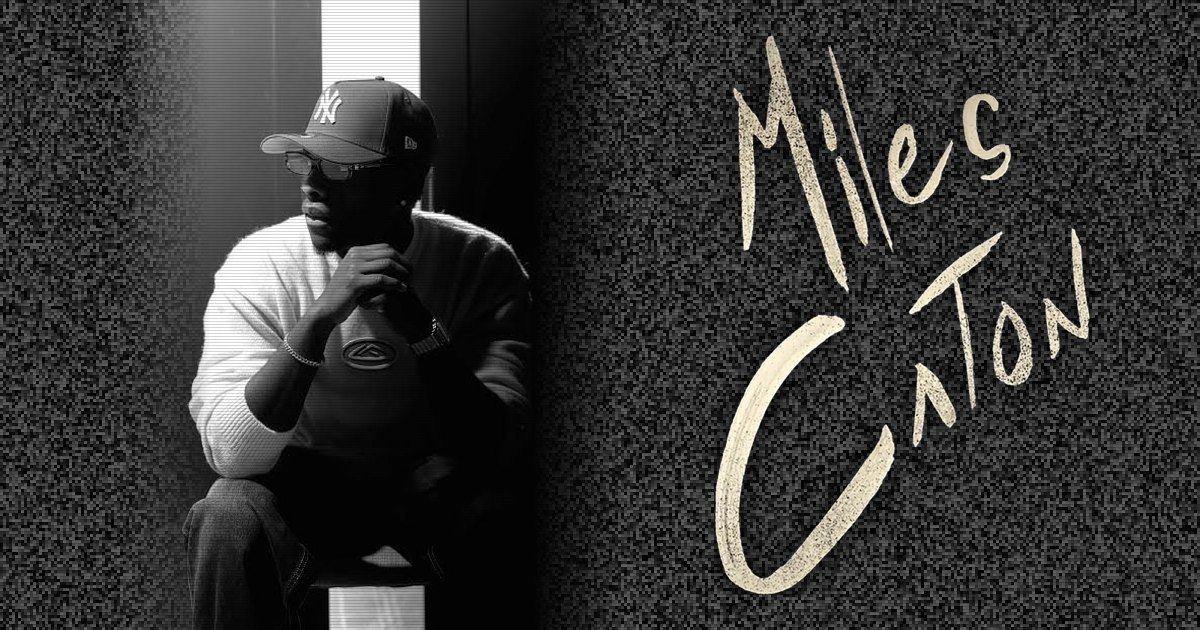
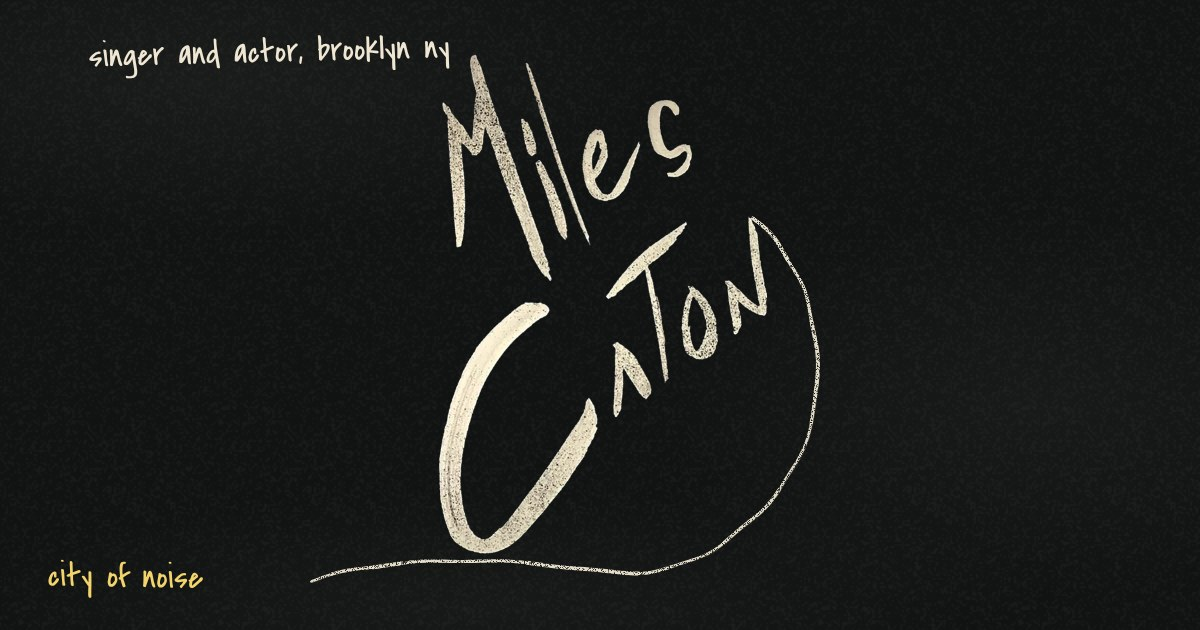
Chalk: signature written stroke by stroke, cleaner line routes, new typeface, chalk layouts for Videos, Press and Dates, new share image
Claude-Session: https://claude.ai/code/session_0155bDEFdULQGs3DaMYCasVB

diff --git a/assets/css/site.css b/assets/css/site.css
@@ -1,11 +1,12 @@
 /* Miles Caton fan site: one line of chalk */
+@font-face{font-family:"Display";src:url(/assets/fonts/display.woff2) format("woff2");font-weight:200 800;font-display:swap}
 @font-face{font-family:"Hand";src:url(/assets/fonts/hand.woff2) format("woff2");font-display:swap}
 :root{
   --sig:url(/img/signature.webp);
   --board:#101312; --board2:#171b19; --chalk:#EFE7D3; --fg:#EFE7D3; --mute:#A8A595; --rule:rgba(239,231,211,.16);
   --yellow:#F3D36B; --ink:#101312;
   --g:clamp(20px,3.4vw,56px);
-  --h:"Helvetica Neue", Helvetica, Arial, sans-serif;
+  --h:"Display","Helvetica Neue", Helvetica, Arial, sans-serif;
   --hand:"Hand","Bradley Hand","Segoe Print","Comic Sans MS",cursive;
   --ease:cubic-bezier(.2,.7,.1,1);
 }
@@ -81,15 +82,12 @@ ul,ol{list-style:none}
 /* ---------- home: the board ---------- */
 .board-hero{position:relative;min-height:calc(100svh - 90px);display:grid;place-items:center;padding:20px var(--g) 90px}
 .sig-write{position:relative;height:min(68svh,calc(78vw * 1.49));aspect-ratio:500/745;transform:rotate(-2deg)}
-.sw{position:absolute;inset:0}
-.sw.a{clip-path:polygon(0 0,100% 0,100% 31%,60% 33%,50% 38%,38% 46%,0 48%)}
-.sw.b{clip-path:polygon(0 48%,38% 46%,50% 38%,60% 33%,100% 31%,100% 100%,0 100%)}
-.sw i{position:absolute;inset:0;background:var(--sig) center/contain no-repeat;clip-path:inset(0 0 0 0)}
-.js .sw.a i{animation:write .8s .25s cubic-bezier(.5,0,.4,1) both}
-.js .sw.b i{animation:write 1s 1.05s cubic-bezier(.5,0,.4,1) both}
-@keyframes write{from{clip-path:inset(0 100% 0 0)}to{clip-path:inset(0 0 0 0)}}
-@media (prefers-reduced-motion:reduce){.js .sw i{animation:none}}
-.chalk-start{position:absolute;left:97%;top:37%;width:1px;height:1px}
+.sig-svg{position:absolute;inset:0;width:100%;height:100%;overflow:visible}
+.st{fill:none;stroke:#fff;stroke-linejoin:round;stroke-dasharray:1;stroke-dashoffset:0}
+.js .st{animation:write var(--t) var(--d) linear both}
+@keyframes write{from{stroke-dashoffset:1}to{stroke-dashoffset:0}}
+@media (prefers-reduced-motion:reduce){.js .st{animation:none}}
+.chalk-start{position:absolute;left:96%;top:34.5%;width:1px;height:1px}
 .corner{position:absolute;color:var(--chalk)}
 .corner.tl{left:var(--g);top:8px;transform:rotate(-1.5deg)}
 .corner.bl{left:var(--g);bottom:34px;transform:rotate(1deg);color:var(--yellow)}
@@ -198,16 +196,31 @@ figcaption{font-family:var(--hand);font-size:24px;line-height:1.15;color:var(--c
 .play i{width:0;height:0;border-left:13px solid currentColor;border-top:8px solid transparent;border-bottom:8px solid transparent}
 
 /* ---------- videos ---------- */
-.vwall{display:grid;grid-template-columns:1fr 1fr;gap:clamp(50px,7vw,110px) clamp(34px,5vw,80px);padding:0 var(--g)}
-.vt.wide{grid-column:1/-1}
+.setlist{padding:0 var(--g) clamp(50px,7vw,100px)}
+.setlist ul{columns:2;column-gap:var(--g);margin-top:10px;max-width:1100px}
+.setlist li{break-inside:avoid}
+.setlist a{display:flex;align-items:baseline;gap:14px;padding:5px 0;font-family:var(--hand);font-size:clamp(30px,3.2vw,46px);line-height:1.05;transition:color .2s}
+.setlist li:nth-child(odd) a{transform:rotate(-.8deg);transform-origin:left}
+.setlist li:nth-child(even) a{transform:rotate(.6deg);transform-origin:left}
+.setlist a::before{content:"";flex:none;width:18px;height:2px;background:currentColor;align-self:center;transform:rotate(-8deg)}
+.setlist small{font-size:.55em;color:var(--mute)}
+.setlist a:hover{color:var(--yellow)}
+.vwall{display:grid;grid-template-columns:repeat(12,1fr);gap:clamp(60px,8vw,130px) var(--g);padding:0 var(--g)}
+.vt{grid-column:span 6;scroll-margin-top:110px}
+.vt.wide{grid-column:2/-2}
+.vt:not(.wide):nth-of-type(4n+2){grid-column:1/7;margin-top:clamp(20px,5vw,80px)}
+.vt:not(.wide):nth-of-type(4n+3){grid-column:8/-1}
+.vt:not(.wide):nth-of-type(4n){grid-column:2/7}
+.vt:not(.wide):nth-of-type(4n+1){grid-column:7/-1;margin-top:clamp(20px,5vw,80px)}
 .vt-scr{position:relative;aspect-ratio:16/9;background:#000}
 .vt-scr iframe{position:absolute;inset:0;width:100%;height:100%;border:0}
-.vt-snow{position:absolute;inset:0;background:var(--board2)}
+.vt-snow{position:absolute;inset:0;background:var(--board)}
 .vt-out{position:absolute;left:50%;top:50%;transform:translate(-50%,-50%) rotate(-2deg);font-family:var(--hand);font-size:32px;line-height:1.1;text-align:center;border-bottom:2px solid currentColor}
 .vt-out.off{border:0;color:var(--mute)}
-.vt figcaption{transform:none;font-family:var(--h);font-size:16px;margin-top:22px}
-.vt .kind{font-family:var(--hand);font-size:24px;color:var(--yellow);line-height:1}
-.vt h2{font-size:clamp(28px,3.4vw,52px);letter-spacing:-.045em;line-height:1}
+.vt figcaption{font-family:var(--h);font-size:16px;margin-top:26px;transform:rotate(-.7deg);transform-origin:left}
+.vt:nth-of-type(even) figcaption{transform:rotate(.5deg)}
+.vt .kind{font-family:var(--hand);font-size:26px;color:var(--yellow);line-height:1}
+.vt h2{font-size:clamp(30px,3.6vw,56px);letter-spacing:-.04em;line-height:1}
 .vt .meta{color:var(--mute);margin:6px 0 8px}
 .yt-link{font-size:14px}
 
@@ -234,18 +247,20 @@ dialog{color:var(--fg)}
 .up-a{grid-column:1/8}.up-b{grid-column:9/-1}
 .up-none{font-size:clamp(24px,2.6vw,40px);letter-spacing:-.03em;line-height:1.12}
 .up-s{margin-top:10px}
-.bday{display:flex;align-items:center;gap:22px;margin:10px 0 18px}
-.bday b{font-family:var(--hand);font-weight:400;font-size:clamp(70px,8vw,120px);line-height:1;color:var(--yellow)}
+.bday{display:flex;align-items:center;gap:34px;margin:26px 0 30px 14px}
+.bday b{font-family:var(--hand);font-weight:400;font-size:clamp(80px,9vw,140px);line-height:1;color:var(--yellow)}
 .past-h{margin-top:20px}
 .dl{padding:0 var(--g)}
 .up-list{padding:0}
-.dl li{display:grid;grid-template-columns:150px 110px 1fr auto;gap:18px;align-items:baseline;padding:16px 0;border-bottom:1px dashed var(--rule)}
-.dl .d{font-family:var(--hand);font-size:24px;line-height:1.1;color:var(--mute)}
-.dl .d b{font-weight:400;color:var(--chalk);margin-right:8px}
-.dl .w{font-family:var(--hand);font-size:22px;line-height:1.1;color:var(--yellow)}
-.dl .t{font-size:clamp(18px,1.9vw,26px);letter-spacing:-.02em;line-height:1.2}
-.dl .t small{display:block;font-size:15px;letter-spacing:0;color:var(--mute);margin-top:3px}
-.dl .e{font-size:14px;white-space:nowrap}
+.dl li{display:grid;grid-template-columns:minmax(190px,22%) 1fr auto;gap:var(--g);align-items:center;padding:clamp(18px,2.4vw,34px) 0;border-bottom:1px dashed var(--rule)}
+.dl .d{font-family:var(--hand);line-height:1;justify-self:start}
+.dl .d b{display:inline-block;font-weight:400;font-size:clamp(44px,5vw,76px);color:var(--chalk)}
+.dl li:nth-child(odd) .d b{transform:rotate(-3deg)}.dl li:nth-child(even) .d b{transform:rotate(2deg)}
+.dl .d i{display:block;font-style:normal;font-size:24px;color:var(--mute);margin-top:2px}
+.dl .w{display:block;font-family:var(--hand);font-style:normal;font-size:26px;line-height:1;color:var(--yellow);letter-spacing:0;margin-bottom:4px}
+.dl .t{font-size:clamp(24px,3vw,46px);font-weight:700;letter-spacing:-.04em;line-height:1.05}
+.dl .t small{display:block;font-size:16px;font-weight:400;letter-spacing:0;line-height:1.4;color:var(--mute);margin-top:8px}
+.dl .e{font-family:var(--hand);font-size:28px;line-height:1;white-space:nowrap}
 
 /* ---------- honors ---------- */
 .tally{display:grid;grid-template-columns:1fr 1fr 1fr;gap:var(--g);padding:0 var(--g) clamp(50px,7vw,100px);align-items:start}
@@ -264,18 +279,22 @@ dialog{color:var(--fg)}
 .cover{padding-bottom:clamp(50px,7vw,100px);align-items:end}
 .cover-ph{grid-column:1/5}.cover-t{grid-column:6/10}.cover-ph2{grid-column:10/-1}
 .cover-h{font-size:clamp(28px,3.6vw,56px);letter-spacing:-.04em;line-height:1;margin:6px 0 14px}
-.filters{display:flex;flex-wrap:wrap;gap:6px 22px;padding:0 var(--g) 20px}
+.filters{display:flex;flex-wrap:wrap;gap:6px 22px;padding:0 var(--g) 20px calc(var(--g) + 25%)}
 .filters button{font-family:var(--hand);font-size:28px;line-height:1.1;color:var(--mute);border-bottom:2px solid transparent}
 .filters button[aria-pressed=true]{color:var(--yellow);border-color:currentColor}
-.press{padding:0 var(--g)}
-.press .yr-h{font-family:var(--hand);font-size:clamp(44px,5vw,72px);line-height:1;color:var(--yellow);padding:34px 0 8px}
-.press a{display:grid;grid-template-columns:110px 190px 1fr 110px;gap:18px;align-items:baseline;padding:14px 0;border-bottom:1px dashed var(--rule);transition:color .2s}
+.press{padding:0 var(--g) 0 calc(var(--g) + 25%)}
+.press .yr-h{position:relative;height:0}
+.press .yr-h+li a{border-top:1px dashed var(--rule)}
+.press .yr-h:not(:first-child)+li{margin-top:clamp(50px,7vw,110px)}
+.press .yr-h span{position:absolute;right:calc(100% + 7vw);top:30px;font-family:var(--hand);font-size:clamp(70px,9vw,140px);line-height:.9;color:var(--yellow);transform:rotate(-5deg)}
+.press .yr-h:not(:first-child) span{top:calc(30px + clamp(50px,7vw,110px))}
+.press a{display:grid;grid-template-columns:1fr auto;gap:4px 24px;align-items:baseline;padding:clamp(16px,2vw,26px) 0;border-bottom:1px dashed var(--rule);transition:color .2s}
 .press a:hover{color:var(--yellow)}
-.press .d,.press .k{font-family:var(--hand);font-size:22px;line-height:1.1;color:var(--mute)}
-.press .k{text-align:right}
-.press .o{font-weight:700}
-.press .h{font-size:clamp(17px,1.6vw,22px);line-height:1.25}
-.further{padding:40px var(--g) 0;display:flex;flex-wrap:wrap;gap:8px 20px}
+.press .o{grid-column:1;grid-row:1;font-family:var(--hand);font-size:clamp(28px,2.8vw,40px);line-height:1}
+.press .d{grid-column:2;grid-row:1;font-family:var(--hand);font-size:24px;line-height:1;color:var(--mute);text-align:right}
+.press .h{grid-column:1;grid-row:2;font-size:clamp(20px,2.3vw,34px);font-weight:700;letter-spacing:-.035em;line-height:1.1;max-width:26em}
+.press .k{grid-column:2;grid-row:2;font-family:var(--hand);font-size:24px;line-height:1;color:var(--yellow);text-align:right}
+.further{padding:50px var(--g) 0 calc(var(--g) + 25%);display:flex;flex-wrap:wrap;gap:8px 20px}
 
 /* ---------- fans: the chalk wall ---------- */
 .wall{display:grid;grid-template-columns:repeat(auto-fill,minmax(260px,1fr));gap:clamp(30px,4vw,60px);padding:0 var(--g) clamp(50px,7vw,100px);align-items:start}
@@ -361,18 +380,24 @@ dialog{color:var(--fg)}
   .tracks li{grid-template-columns:36px 1fr}.tracks li span{grid-column:2}
   .film-more p{grid-column:1/-1}
   .panel .row{flex-direction:column;align-items:flex-start}
+  .setlist ul{columns:1}
   .vwall{grid-template-columns:1fr;padding:0 calc(var(--g) + 8px)}
+  .vwall .vt:nth-of-type(n){grid-column:1/-1;margin-top:0}
   .ph-grid{grid-template-columns:1fr 1fr;gap:50px 30px}
   .ph-fig:nth-child(n){margin-top:0}.ph-fig:nth-child(even){margin-top:36px}
   .ph-fig figcaption{font-size:20px}
   .up-a,.up-b{grid-column:1/-1}.up-b{margin-top:40px}
-  .dl li{grid-template-columns:1fr auto;gap:4px 14px}
-  .dl .t{grid-column:1/-1;order:3}.dl .e{grid-column:1/-1;order:4;justify-self:start}
+  .dl li{grid-template-columns:1fr auto;gap:10px 14px;align-items:end}
+  .dl .d{grid-column:1/-1;display:flex;align-items:baseline;gap:14px}
+  .dl .t{grid-column:1}.dl .e{grid-column:2}
   .tally{grid-template-columns:1fr 1fr}.hon-ph{grid-column:1/-1;margin:20px 8px 0}
   .hon li{grid-template-columns:1fr auto}.hon .c{grid-column:1/-1;order:3}
   .cover-ph{grid-column:1/8}.cover-ph2{grid-column:8/-1}.cover-t{grid-column:1/-1;order:3;margin-top:30px}
-  .press a{grid-template-columns:auto 1fr;gap:2px 14px}
-  .press .o{grid-column:2}.press .h{grid-column:1/-1}.press .k{grid-column:1/-1;text-align:left}
+  .press,.filters,.further{padding-left:var(--g)}
+  .press .yr-h{height:auto;padding:40px 0 16px 10px}
+  .press .yr-h span,.press .yr-h:not(:first-child) span{position:static;display:inline-block;font-size:64px}
+  .press .yr-h:not(:first-child)+li{margin-top:0}
+  .press a{gap:4px 14px}
   .send-a,.send-b,.signup-a,.signup-b,.fix-a,.fix-b{grid-column:1/-1}
   .send-b,.signup-b,.fix-b{margin-top:30px}
   .foot{grid-template-columns:1fr}

diff --git a/assets/js/site.js b/assets/js/site.js
@@ -69,7 +69,7 @@
       const kf = (y) => Math.min(y, key);
       if (!cur) { penUp = true; put(T.x, T.y, key); return; }
       const dx = T.x - cur.x, dy = T.y - cur.y;
-      if ((direct && !(W < 700 && dy > 150)) || Math.abs(dy) < 120) {
+      if ((direct && !(W < 900 && dy > 150)) || Math.abs(dy) < 120) {
         const sag = Math.abs(dy) < 60 ? 24 : 0;
         bez({ x: cur.x + dx * .25, y: cur.y + dy * .6 + sag }, { x: T.x - dx * .25, y: T.y - dy * .6 + sag }, T, kf);
         return;
@@ -90,6 +90,10 @@
       const key = type === 'start' ? -1e8 : r.t + Math.min(r.h * .5, 160);
       const K = () => key, rnd = rng(idx * 7919 + 13);
       mk = idx + 1; el._mk = mk;
+      // a mark on its own: lift the chalk, draw it, then carry the long line on from where it was
+      const solo = el.hasAttribute('data-solo'), hold = cur;
+      if (solo) cur = null;
+      try {
       if (type === 'start') {
         // leave the last letter of the signature and sweep back under the whole name
         const h = el.parentElement.getBoundingClientRect(), hb = h.bottom + sy;
@@ -102,8 +106,8 @@
         const y = r.b + Math.max(7, Math.min(12, r.h * .06));
         travel({ x: r.l - 6, y: y + 3 }, key, direct, side);
         bez({ x: r.l + r.w * .3, y: y - 3 }, { x: r.l + r.w * .7, y: y + 4 }, { x: r.r + 12, y: y - 2 }, K);
-        if (type === 'under2' && W >= 700) {
-          const y2 = y + Math.max(10, Math.min(22, r.h * .07));
+        if (type === 'under2') {
+          const y2 = y + (W < 700 ? 7 : Math.max(10, Math.min(22, r.h * .07)));
           bez({ x: r.r + 26, y: y + 2 }, { x: r.r + 20, y: y2 }, { x: r.r - 10, y: y2 }, K);
           bez({ x: r.l + r.w * .7, y: y2 + 3 }, { x: r.l + r.w * .4, y: y2 - 3 }, { x: r.l - 4, y: y2 + 3 }, K);
         }
@@ -159,12 +163,22 @@
         cur = hold; penUp = !hold; if (hold) { penUp = true; put(hold.x, hold.y, key); }
         return;
       }
+      if (type === 'strike') {
+        const hold = cur, y = (r.t + r.b) / 2;
+        penUp = true; put(r.l - 7, y + 2 + rnd() * 5, key);
+        line({ x: r.r + 9, y: y - 5 + rnd() * 5 }, K);
+        cur = hold; penUp = !hold; if (hold) { penUp = true; put(hold.x, hold.y, key); }
+        return;
+      }
       if (type === 'end') {
         const y0 = r.t + r.h * .92, x0 = r.l, loops = 3, a = Math.min(28, r.w / 12), bb = a * 1.9;
         travel({ x: x0, y: y0 }, key, direct, side);
         const n = Math.ceil(loops * 2 * Math.PI * bb * 1.6 / STEP);
         for (let i = 1; i <= n; i++) { const t = i / n * loops * 2 * Math.PI; put(x0 + a * t - bb * Math.sin(t), y0 - bb * (1 - Math.cos(t)) * .8, key); }
         bez({ x: cur.x + 40, y: y0 + 4 }, { x: cur.x + 110, y: y0 - 14 }, { x: Math.min(r.r, cur.x + 190), y: y0 - 4 }, K);
+      }
+      } finally {
+        if (solo) { cur = hold; penUp = !hold; if (hold) { penUp = true; put(hold.x, hold.y, key); } }
       }
     });
 
@@ -252,7 +266,7 @@
   addEventListener('load', rebuild);
   if (document.fonts && document.fonts.ready) document.fonts.ready.then(rebuild);
   // on the home page the line waits for the signature to finish writing
-  setTimeout(() => { armed = true; kick(); }, reduce ? 0 : ($('.sig-write') && scrollY < 40 ? 2050 : 350));
+  setTimeout(() => { armed = true; kick(); }, reduce ? 0 : ($('.sig-write') && scrollY < 40 ? 2200 : 350));
 
   // a plucked line: the music page waves shake when you point at them
   const pluckEl = (el, hold) => { if (el && el._mk && !reduce) { pluck = { m: el._mk, a: hold ? .2 : 1, hold: !!hold }; kick(); } };
